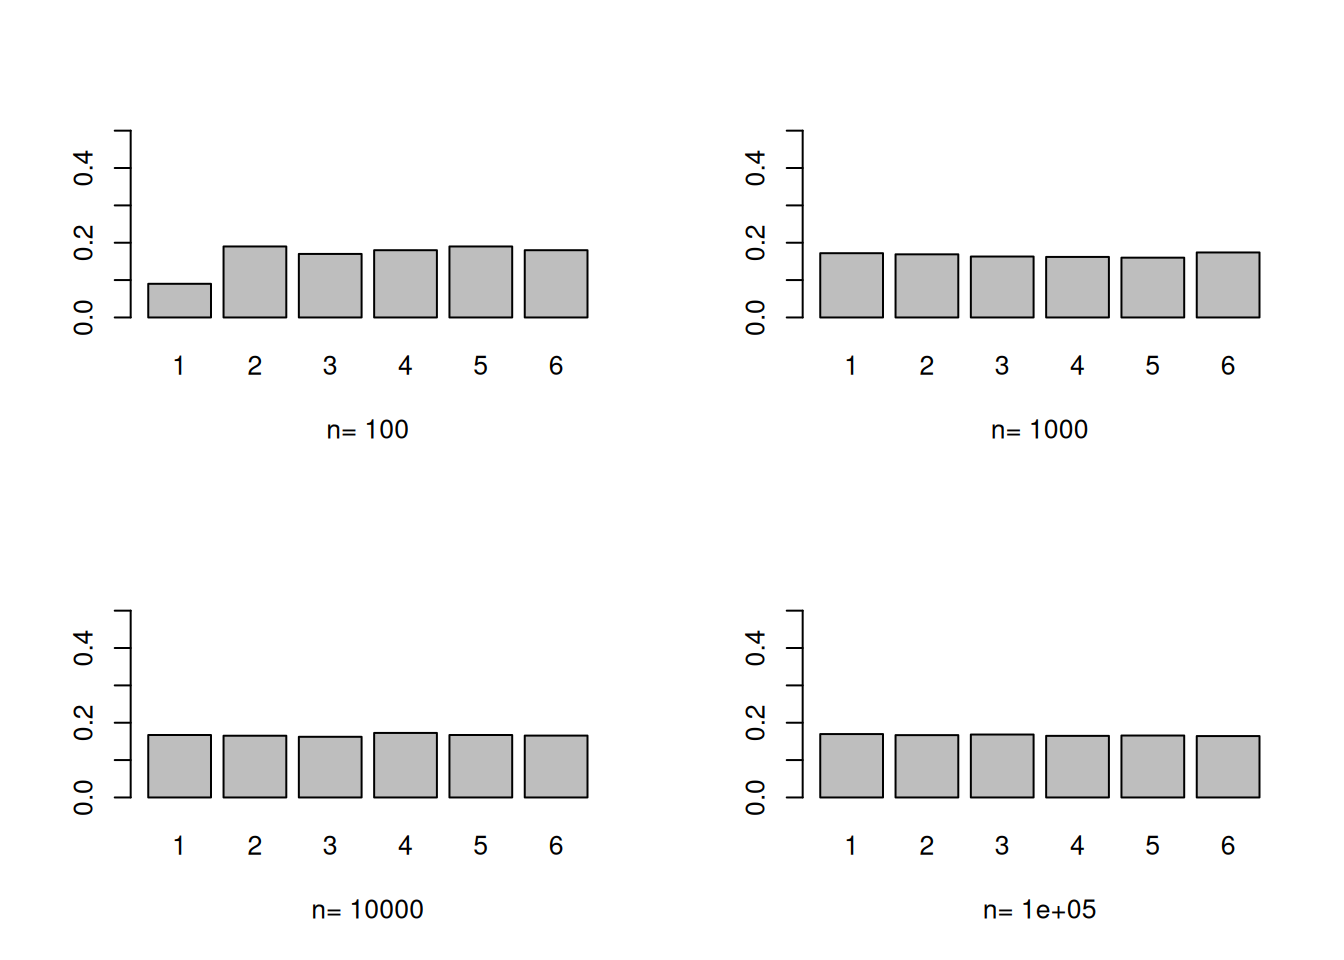
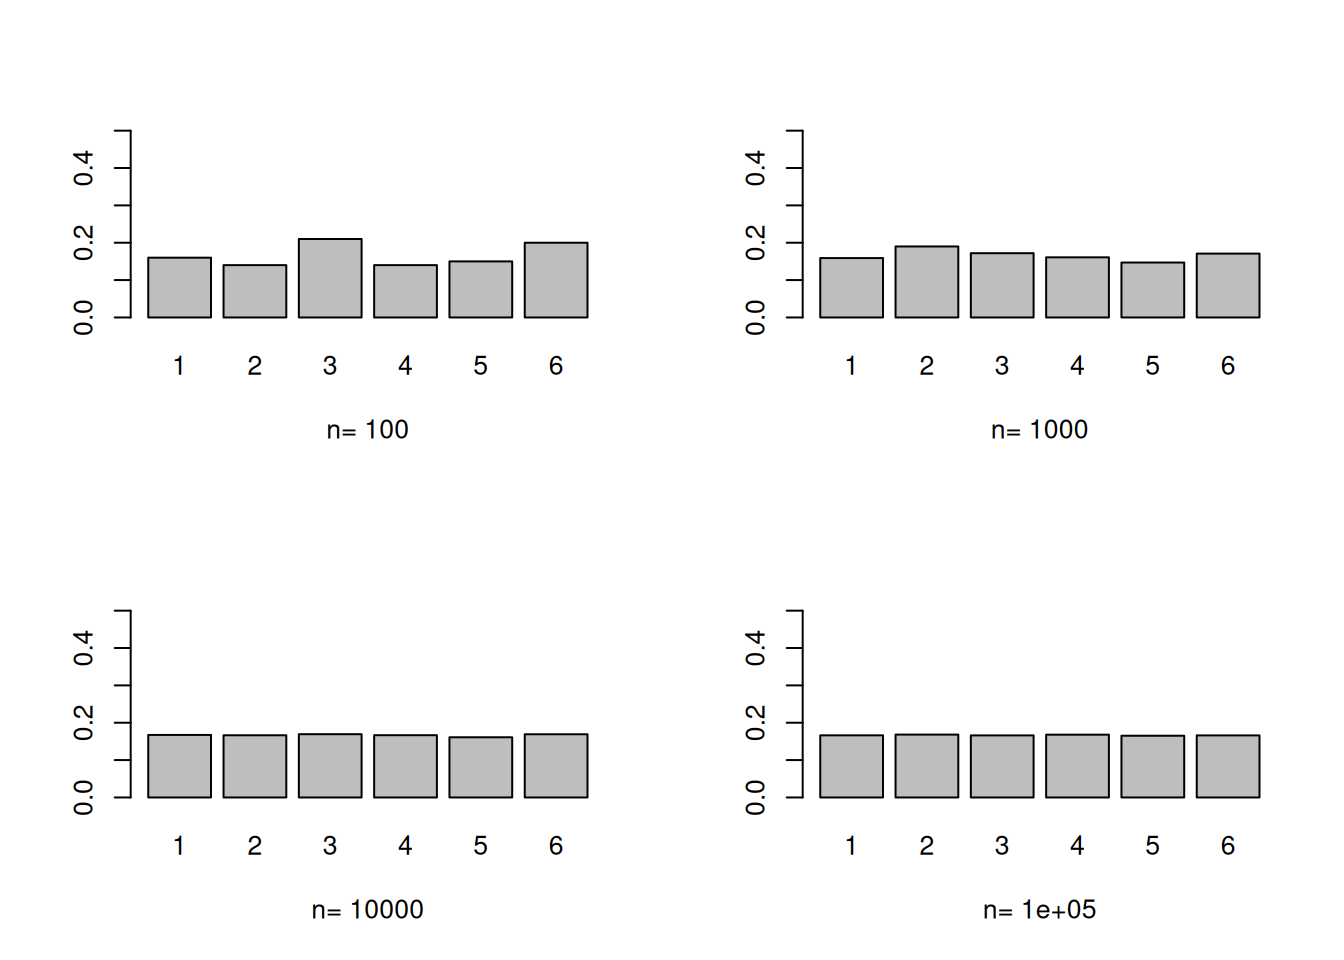
Built site for gh-pages

diff --git a/posts/stat/3.html b/posts/stat/3.html
@@ -748,11 +748,11 @@ pre > code.sourceCode > span > a:first-child::before { text-decoration: underlin
 <div class="cell">
 <div class="sourceCode cell-code" id="cb11"><pre class="sourceCode r code-with-copy"><code class="sourceCode r"><span id="cb11-1"><a href="#cb11-1" aria-hidden="true" tabindex="-1"></a><span class="fu">sample</span>(<span class="dv">1</span><span class="sc">:</span><span class="dv">20</span>, <span class="dv">10</span>, <span class="at">replace=</span>T)</span></code><button title="Copy to Clipboard" class="code-copy-button"><i class="bi"></i></button></pre></div>
 <div class="cell-output cell-output-stdout">
-<pre><code> [1]  5  3 10 13 20  1 20  2 10 20</code></pre>
+<pre><code> [1]  9  8  5 10 18 18  1 10 19 10</code></pre>
 </div>
 <div class="sourceCode cell-code" id="cb13"><pre class="sourceCode r code-with-copy"><code class="sourceCode r"><span id="cb13-1"><a href="#cb13-1" aria-hidden="true" tabindex="-1"></a><span class="fu">sample</span>(<span class="fu">c</span>(<span class="st">'H'</span>, <span class="st">'T'</span>), <span class="dv">10</span>, <span class="at">replace=</span>T, <span class="at">prob=</span><span class="fu">c</span>(<span class="fl">0.3</span>, <span class="fl">0.7</span>))</span></code><button title="Copy to Clipboard" class="code-copy-button"><i class="bi"></i></button></pre></div>
 <div class="cell-output cell-output-stdout">
-<pre><code> [1] "T" "T" "T" "T" "T" "T" "T" "H" "T" "H"</code></pre>
+<pre><code> [1] "T" "H" "H" "H" "T" "T" "H" "H" "T" "T"</code></pre>
 </div>
 <div class="sourceCode cell-code" id="cb15"><pre class="sourceCode r code-with-copy"><code class="sourceCode r"><span id="cb15-1"><a href="#cb15-1" aria-hidden="true" tabindex="-1"></a><span class="fu">par</span>(<span class="at">mfrow=</span><span class="fu">c</span>(<span class="dv">2</span>,<span class="dv">2</span>))</span>
 <span id="cb15-2"><a href="#cb15-2" aria-hidden="true" tabindex="-1"></a><span class="cf">for</span> (i <span class="cf">in</span> <span class="fu">c</span>(<span class="dv">100</span>, <span class="dv">1000</span>, <span class="dv">10000</span>, <span class="dv">100000</span>)) {</span>
